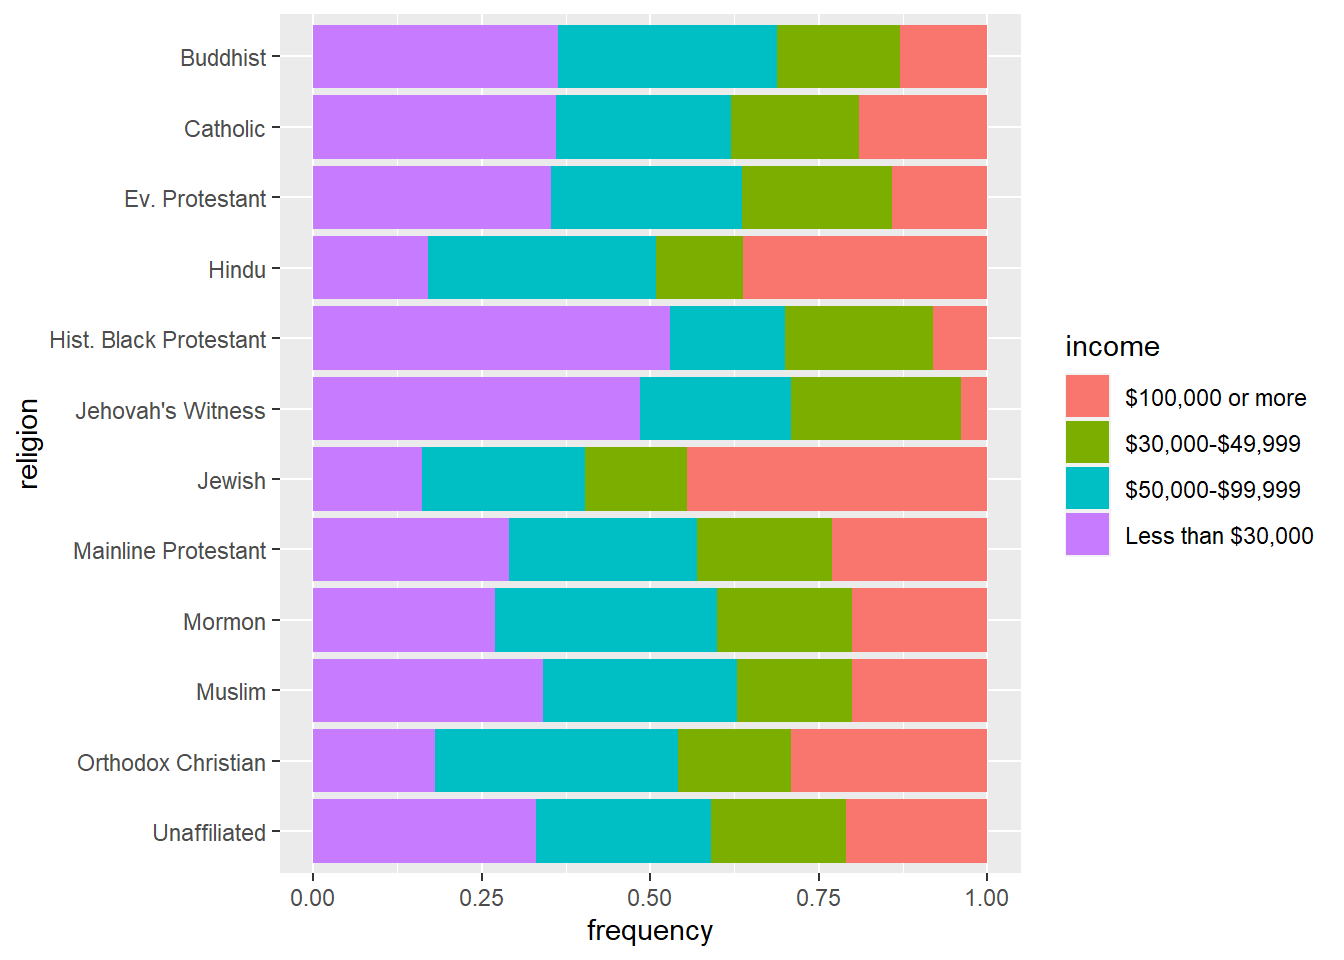
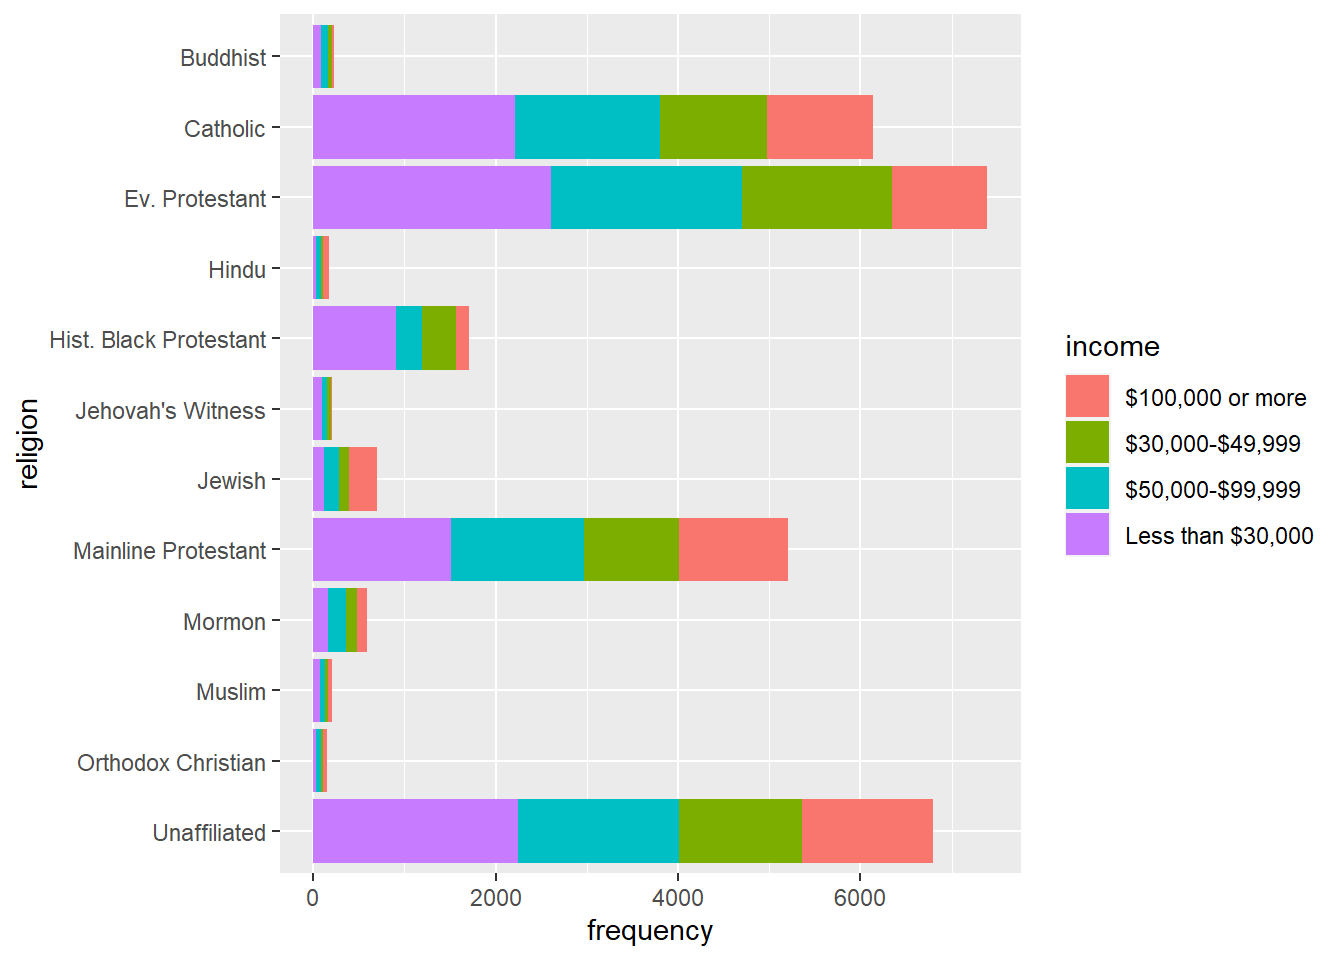
updating the data record post

diff --git a/content/post/2021-06-01-data-record/index.html b/content/post/2021-06-01-data-record/index.html
@@ -10,8 +10,8 @@ tags: []
 <script src="{{< blogdown/postref >}}index_files/header-attrs/header-attrs.js"></script>
 
 
-<div id="import-and-tranform-relig_income.csv-file" class="section level2">
-<h2>Import and tranform relig_income.csv file</h2>
+<div id="import-and-transform-relig-income.csv-file" class="section level2">
+<h2>Import and Transform Relig-income.csv file</h2>
 <pre class="r"><code>library(tidyverse)</code></pre>
 <pre><code>## -- Attaching packages --------------------------------------- tidyverse 1.3.1 --</code></pre>
 <pre><code>## v ggplot2 3.3.3     v purrr   0.3.4
@@ -45,6 +45,7 @@ rel_inc_long &lt;- rel_inc %&gt;%
     religion == &#39;Unaffiliated (religious &quot;nones&quot;)&#39; ~ &quot;Unaffiliated&quot;,
     TRUE                                           ~ religion
   ))
+
 rel_inc_long &lt;- rel_inc_long %&gt;%
   mutate(religion = fct_rev(religion))
 
@@ -55,6 +56,47 @@ ggplot(rel_inc_long, aes(y = religion, x = frequency)) +
 <div id="fill-barplot-with-income" class="section level2">
 <h2>Fill Barplot with Income</h2>
 <pre class="r"><code>ggplot(rel_inc_long, aes(y = religion, x = frequency, fill=income )) +
-  geom_col(position = &quot;fill&quot;)</code></pre>
+  geom_col()</code></pre>
 <p><img src="{{< blogdown/postref >}}index_files/figure-html/unnamed-chunk-3-1.png" width="672" /></p>
+<pre class="r"><code>ggplot(rel_inc_long, aes(y = religion, x = frequency, fill=income )) +
+  geom_col(position = &quot;fill&quot;)</code></pre>
+<p><img src="{{< blogdown/postref >}}index_files/figure-html/unnamed-chunk-3-2.png" width="672" /></p>
+<pre class="r"><code>ggplot(rel_inc_long, aes(y = religion, x = frequency, fill=income )) +
+  geom_col(position = &quot;fill&quot;)+
+  scale_fill_viridis_d()</code></pre>
+<p><img src="{{< blogdown/postref >}}index_files/figure-html/unnamed-chunk-3-3.png" width="672" /></p>
+</div>
+<div id="change-the-theme-of-the-plot" class="section level2">
+<h2>Change the Theme of the plot</h2>
+<pre class="r"><code>ggplot(rel_inc_long, aes(y = religion, x = frequency, fill = income)) +
+  geom_col(position = &quot;fill&quot;) +
+  scale_fill_viridis_d() +
+  theme_minimal()</code></pre>
+<p><img src="{{< blogdown/postref >}}index_files/figure-html/unnamed-chunk-4-1.png" width="672" /></p>
+<pre class="r"><code>ggplot(rel_inc_long, aes(y = religion, x = frequency, fill = income)) +
+  geom_col(position = &quot;fill&quot;) +
+  scale_fill_viridis_d() +
+  theme_minimal() +
+  theme(legend.position = &quot;bottom&quot;)</code></pre>
+<p><img src="{{< blogdown/postref >}}index_files/figure-html/unnamed-chunk-4-2.png" width="672" /></p>
+<pre class="r"><code>ggplot(rel_inc_long, aes(y = religion, x = frequency, fill = income)) +
+  geom_col(position = &quot;fill&quot;) +
+  scale_fill_viridis_d() +
+  theme_minimal() +
+  theme(legend.position = &quot;bottom&quot;) +
+  guides(fill = guide_legend(nrow = 2, byrow = TRUE))</code></pre>
+<p><img src="{{< blogdown/postref >}}index_files/figure-html/unnamed-chunk-4-3.png" width="672" /></p>
+<pre class="r"><code>ggplot(rel_inc_long, aes(y = religion, x = frequency, fill = income)) +
+  geom_col(position = &quot;fill&quot;) +
+  scale_fill_viridis_d() +
+  theme_minimal() +
+  theme(legend.position = &quot;bottom&quot;) +
+  guides(fill = guide_legend(nrow = 2, byrow = TRUE)) +
+  labs(
+    x = &quot;Proportion&quot;, y = &quot;&quot;, 
+    title = &quot;Income distribution by religious group&quot;, 
+    subtitle = &quot;Source: Pew Research Center, Religious Landscape Study&quot;, 
+    fill = &quot;Income&quot; 
+    )</code></pre>
+<p><img src="{{< blogdown/postref >}}index_files/figure-html/unnamed-chunk-4-4.png" width="672" /></p>
 </div>
